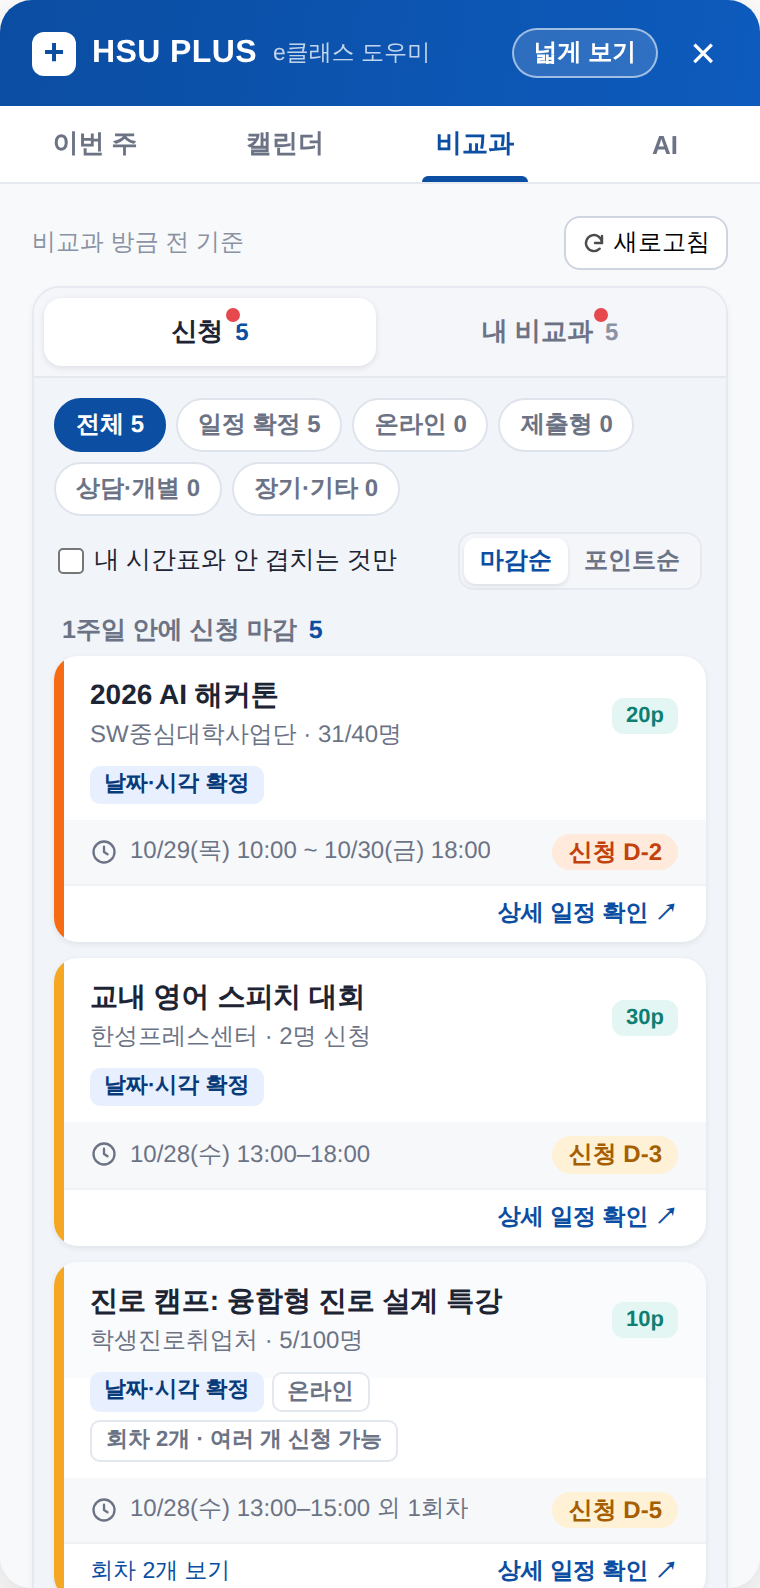
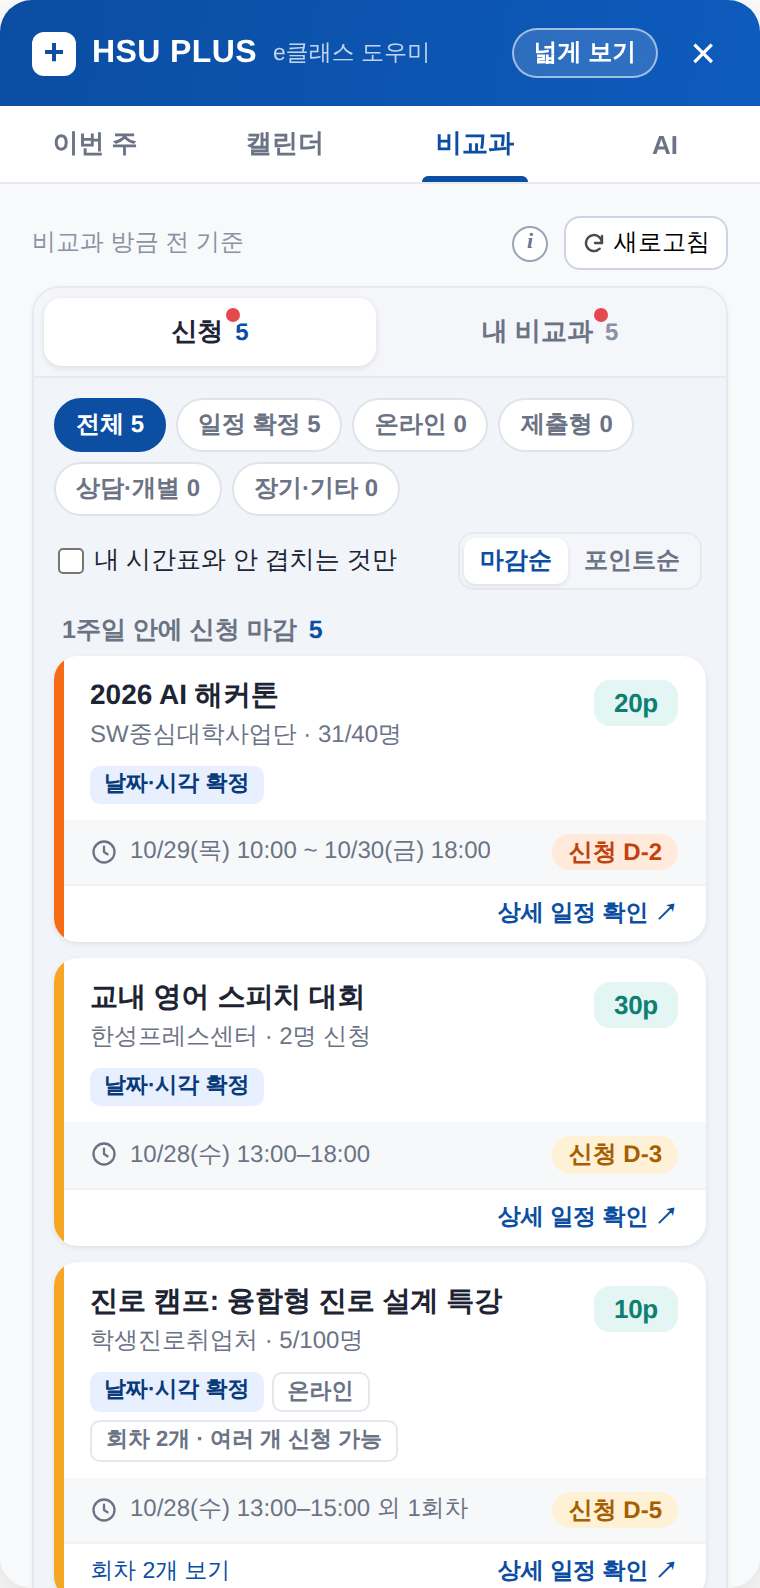
내 비교과 카드에 포인트 표시, 비교과 포인트 배지 조금 크게
- 시작 대기·진행 중 카드 오른쪽 위에 신청 탭과 같은 포인트 배지(Np), 온라인 줄은 기간 뒤에 표시
- 마이페이지 목록 포인트 칸은 이수 전 0이라(실제 확인) 공개 상세 화면의 회차 마일리지 사용
- 신청 탭 배지까지 11px → 13px로 조금 크게
- SITE-NOTES·DEVLOG 기록, 화면 예시 가짜 데이터에 상세 화면 추가, README 그림 2장 갱신

Changed region(s): [[0.7868, 0.4011, 0.9079, 0.4628], [0.7868, 0.6171, 0.9079, 0.6788], [0.8171, 0.8023, 0.8776, 0.864]]

diff --git a/content/main.js b/content/main.js
@@ -1873,6 +1873,17 @@
     return el("span", { class: "dline" }, [icon("clock"), el("span", { class: "dchip", text: "일정 미정", title: "기간만 공지돼 있고 세부 일정은 따로 안내돼요 (추후 공지, 회차마다 다름 등)" }), el("span", { class: "when", text: periodText(s) })]);
   }
 
+  // 내 비교과 포인트: 마이페이지 목록의 포인트 칸은 시작 대기·진행 중일 때 0으로 나옴(이수 뒤에 들어가는 듯, 10/20 확인)
+  //  → 공개 상세 화면의 회차 마일리지를 쓴다(내가 신청한 회차가 표시되면 그 회차만). 실제 확인한 9건은 회차끼리 점수가 모두 같았음
+  function minePoint(p) {
+    const ss = details[p.id]?.d?.sessions || [];
+    const pick = ss.some((s) => s.mine) ? ss.filter((s) => s.mine) : ss;
+    const pts = [...new Set(pick.map((s) => s.point).filter((n) => n > 0))].sort((a, b) => a - b);
+    if (pts.length === 1) return `${pts[0]}p`;
+    if (pts.length > 1) return `${pts[0]}~${pts[pts.length - 1]}p`;
+    return p.mileage > 0 ? `${p.mileage}p` : null;
+  }
+
   function myProgramCard(p) {
     const s = nextSession(p);
     const tier = s.kind === "exact" ? riskTier(s.start) : 5;
@@ -1883,6 +1894,7 @@
           el("div", { class: "tc-title", text: p.title }),
           el("div", { class: "tc-sub", text: [p.category, p.place || p.department].filter(Boolean).join(" · ") }),
         ]),
+        minePoint(p) ? el("span", { class: "badge program", title: "이수하면 받는 포인트 (학교 상세 화면 기준)", text: minePoint(p) }) : null,
       ]),
       el("div", { class: "tc-foot" }, [scheduleLine(p), el("span", { class: "tc-status plain", text: state })]),
     ]);
@@ -1906,7 +1918,7 @@
   function onlineRow(p) {
     const s = p.sessions[0];
     return el("a", { class: "todo quiet", href: p.url, target: "_blank", rel: "noopener" }, [
-      el("div", { class: "info" }, [el("div", { class: "name", text: p.title }), el("div", { class: "sub", text: `${periodText(s)}${p.phase === "wait" ? " · 시작 대기" : ""}` })]),
+      el("div", { class: "info" }, [el("div", { class: "name", text: p.title }), el("div", { class: "sub", text: [periodText(s), p.phase === "wait" ? "시작 대기" : "", minePoint(p) || ""].filter(Boolean).join(" · ") })]),
     ]);
   }
 

diff --git a/content/panel.css b/content/panel.css
@@ -780,3 +780,6 @@ button.ai-pick { width: 100%; font: inherit; text-align: left; cursor: pointer; 
   box-shadow: 0 6px 18px rgba(16, 24, 40, 0.25); opacity: 0; visibility: hidden; transform: translateY(-2px); transition: opacity 0.12s, transform 0.12s; pointer-events: none;
 }
 .info-tip:hover .tip, .info-tip:focus-within .tip { opacity: 1; visibility: visible; transform: none; }
+
+/* ---------- 비교과 카드 포인트 (신청·내 비교과 같은 모양, 조금 크게) 10/20 ---------- */
+.tcard .badge.program { display: inline-block; align-self: flex-start; margin-top: 1px; font-size: 13px; font-weight: 800; padding: 4px 10px; border-radius: 8px; letter-spacing: -0.01em; }

diff --git a/docs/DEVLOG.md b/docs/DEVLOG.md
@@ -195,3 +195,4 @@
   - .ics 내보내기·구글 캘린더 추가에 반복 규칙(매주 요일, 끝나는 날)
   - (사용자) 비교과 일정 분류는 완벽하지 않으니 링크로 확인하게: 신청 탭 카드마다 "상세 일정 확인 ↗"(학교 상세 화면), 캘린더 그날 목록의 비교과에도, 신청·내 비교과 아래 안내 문구
   - (사용자) 맨 아래 안내 문구는 카드 40개를 지나야 보여서 아무도 못 봄 → 위쪽 줄(기준 시각·새로고침 옆)에 동그라미 i 버튼. 마우스를 올리거나 키보드로 가면 설명 말풍선. 비교과(신청/내 비교과에 맞는 문구)·캘린더 탭. 말풍선은 윗줄 너비로 펼쳐서 i 위치와 상관없이 잘리지 않음
+  - (사용자) 내 비교과(시작 대기·진행 중·온라인)에도 몇 점짜리인지: 카드 오른쪽 위에 신청 탭과 같은 초록 "Np". 신청 탭 것까지 조금 크게(11px → 13px). 마이페이지 목록의 포인트 칸은 이수 전엔 0이라(실제 확인) 공개 상세 화면 회차 마일리지를 씀(내가 신청한 회차가 표시되면 그 회차만, 회차끼리 다르면 "10~20p")

diff --git a/docs/SITE-NOTES.md b/docs/SITE-NOTES.md
@@ -41,6 +41,7 @@
   - title 예: "○○ 신청시작"
 - 마이페이지
   - 나의 비교과프로그램 `/ko/mypage/programs/list/{wait|progress|complete|cancel}/{page}` (표가 아니라 목록 구조): 분류, 부서, 제목, 회차, 포인트, 시간, 이수여부(+이수일), 설문조사·확인증 버튼
+    - (10/20 확인) 시작 대기·진행 중 목록의 포인트 칸은 0으로 나옴(이수 뒤에 채워지는 듯). 공개 상세 화면의 회차 마일리지는 9건 모두 0보다 크고 한 프로그램 안 회차끼리 같았음 → 내 비교과 카드 포인트는 공개 상세 기준
   - 비교과 포인트 내역 `/ko/mypage/point` (페이지 로드 후 불러옴)
     - (10/14) 위쪽 `div.mileage` 6칸: 이번학기 취득 / 지난 학기 이월 / 다음 학기 이월 / 소멸 / 전체 누적 / 졸업 인정
     - (10/19) 아래 "비교과 포인트 내역" 목록 `li.tbody`: `.title`("[프로그램] 이수"), `.change`(+N), `.accumulation`, `.date`. 한 쪽 20줄, 2쪽부터 `/ko/mypage/point/{쪽}`
